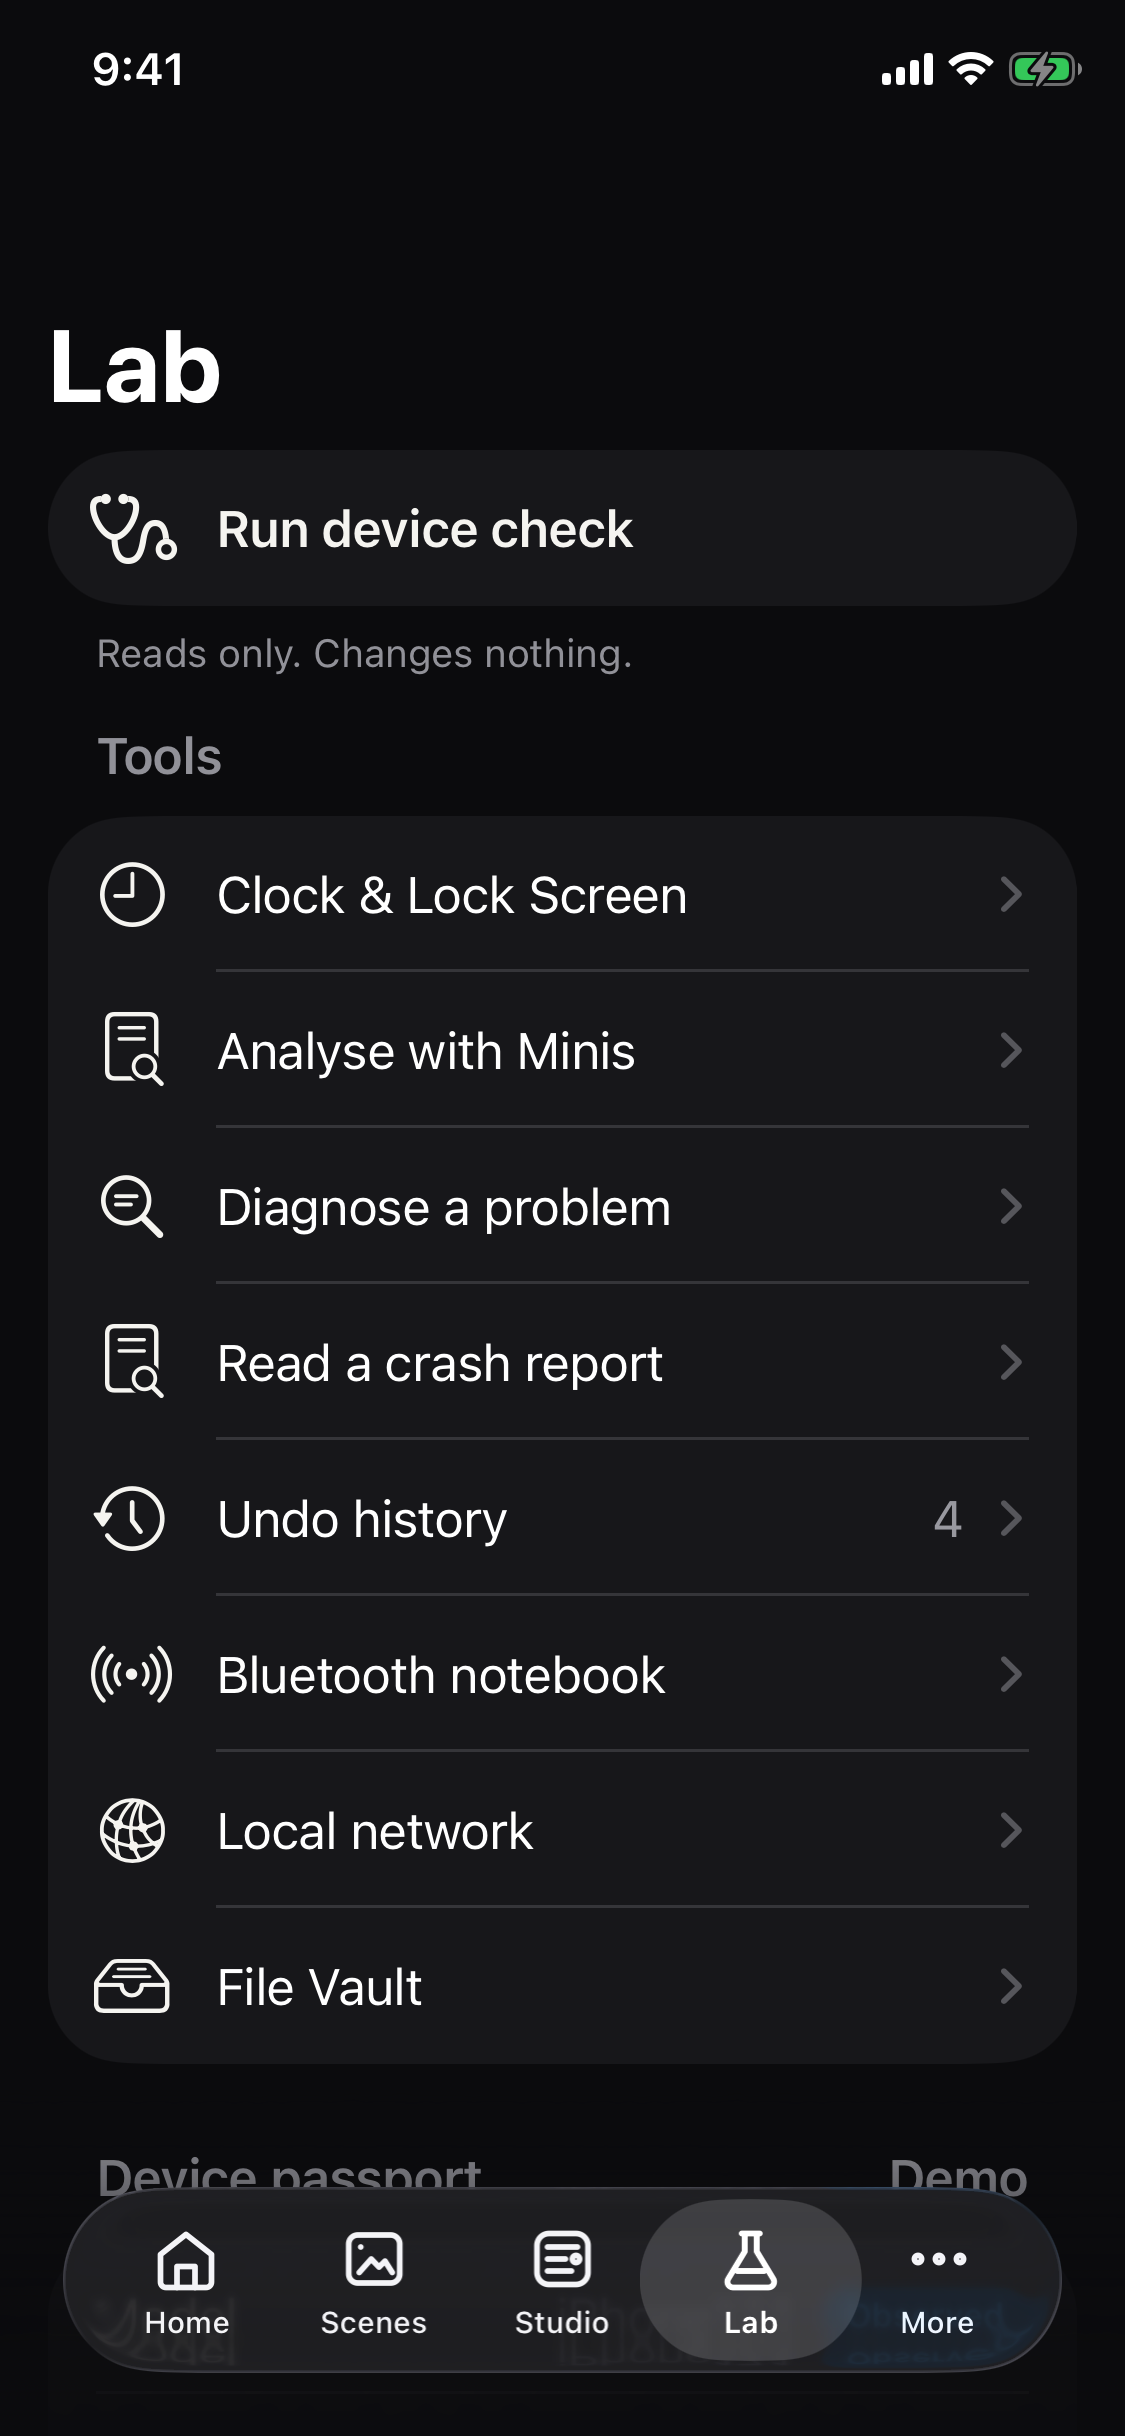
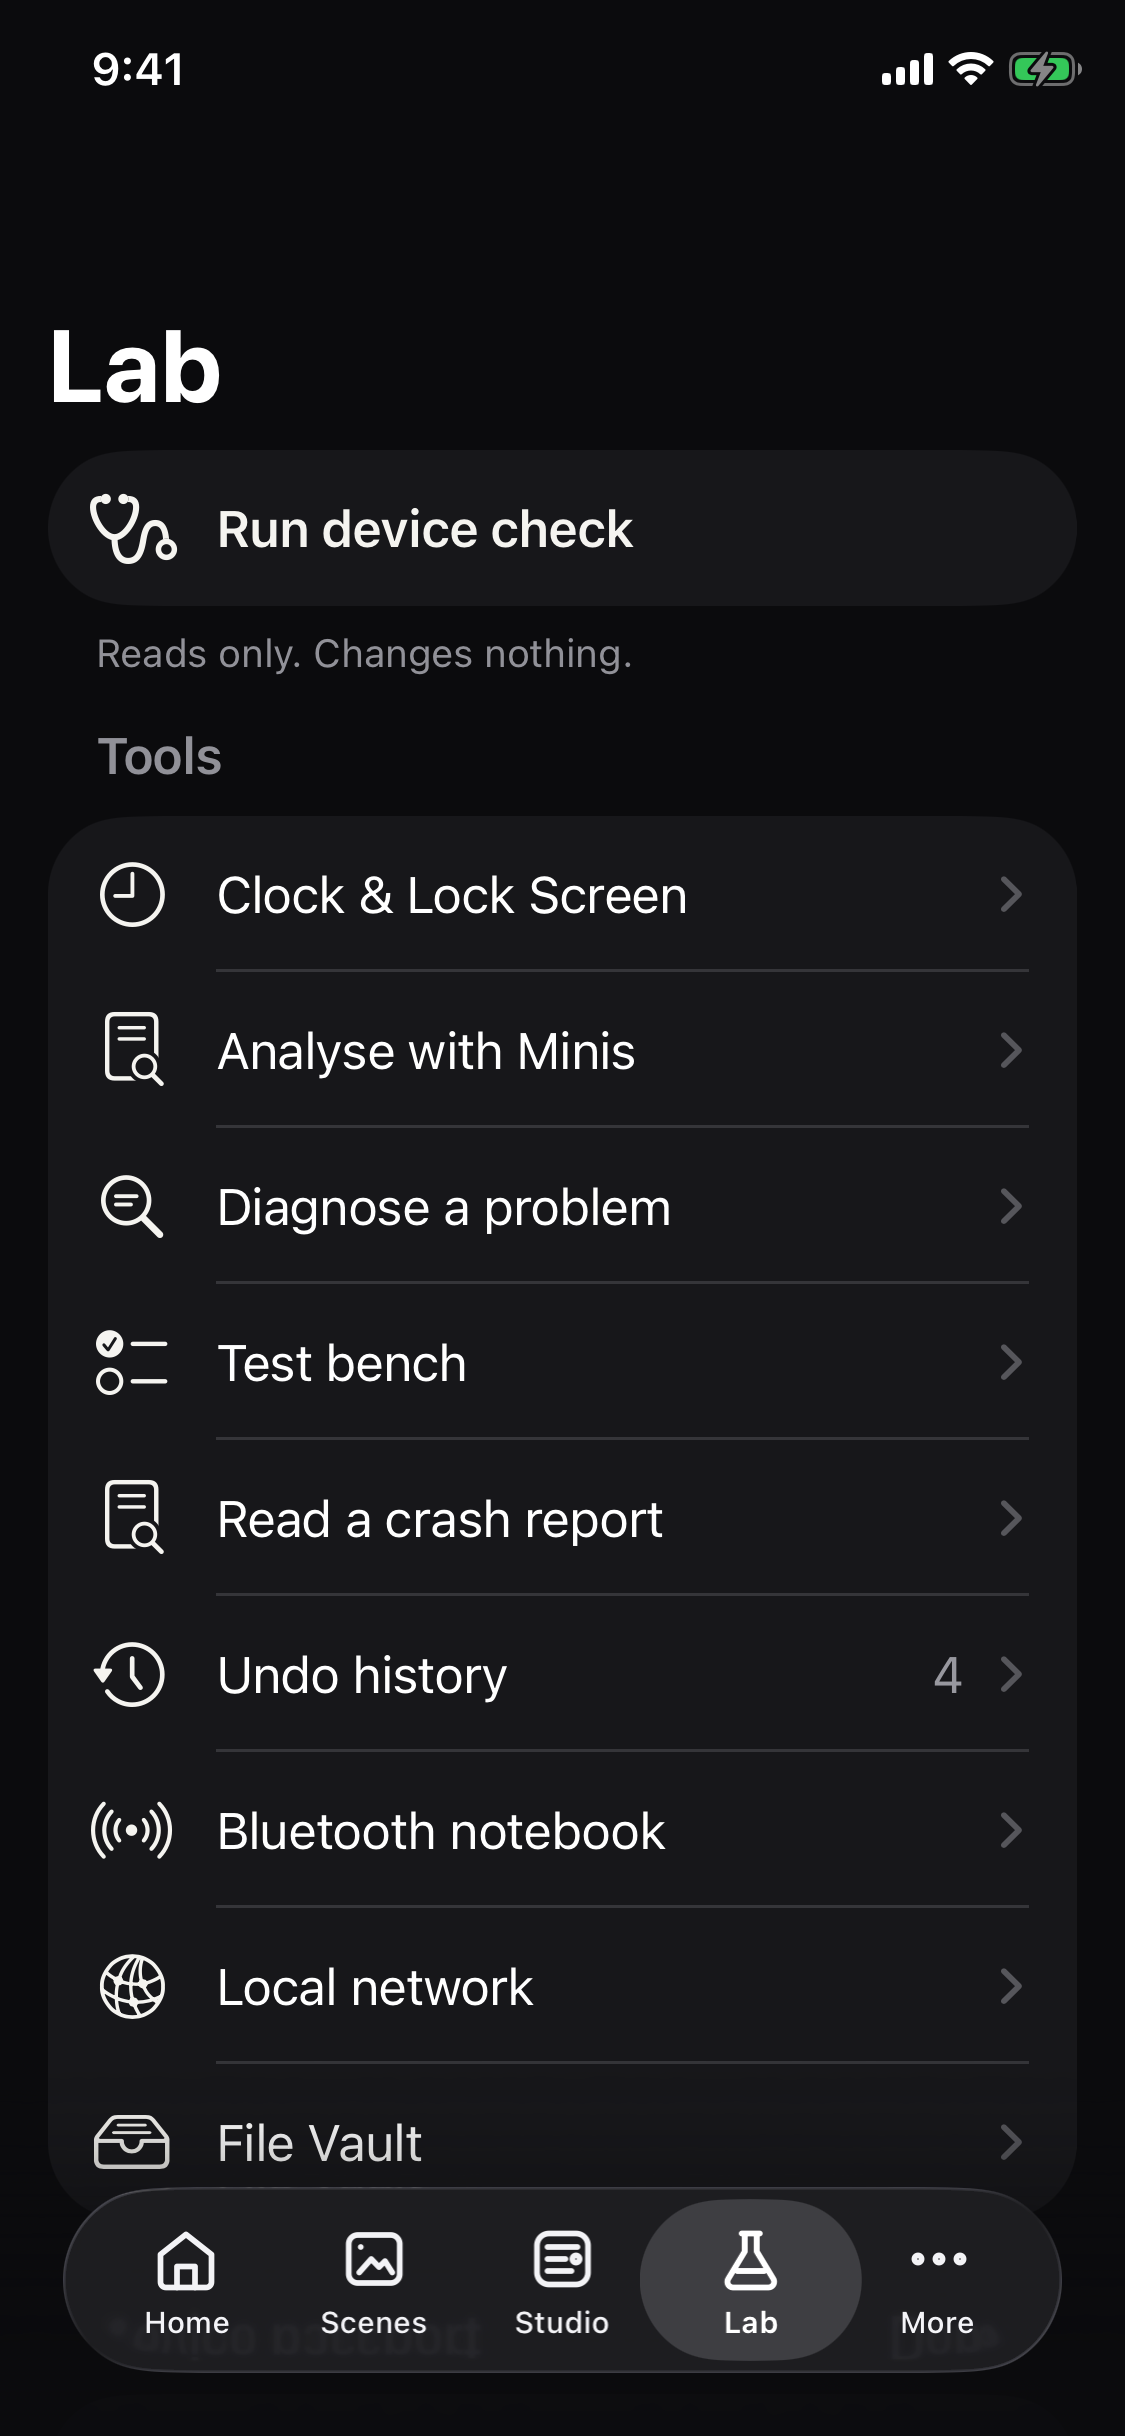
docs: app screenshots (9d62f40)

diff --git a/docs/app-screens/README.md b/docs/app-screens/README.md
@@ -73,4 +73,6 @@ Rendered by CI in the iOS Simulator (demo engine, 9:41 status bar).
 <td align="center"><img src="31-crash-review-dark.png" width="200"><br><sub>31-crash-review-dark</sub></td>
 <td align="center"><img src="31-crash-review-light.png" width="200"><br><sub>31-crash-review-light</sub></td>
 <td align="center"><img src="32-studio-accessibility.png" width="200"><br><sub>32-studio-accessibility</sub></td>
-<td align="center"><img src="33-onboarding-accessibility.png" width="200"><br><sub>33-onboarding-accessibility</sub></td></tr><tr></tr></table>
+<td align="center"><img src="33-onboarding-accessibility.png" width="200"><br><sub>33-onboarding-accessibility</sub></td></tr><tr>
+<td align="center"><img src="34-bench-dark.png" width="200"><br><sub>34-bench-dark</sub></td>
+<td align="center"><img src="34-bench-light.png" width="200"><br><sub>34-bench-light</sub></td></tr></table>
